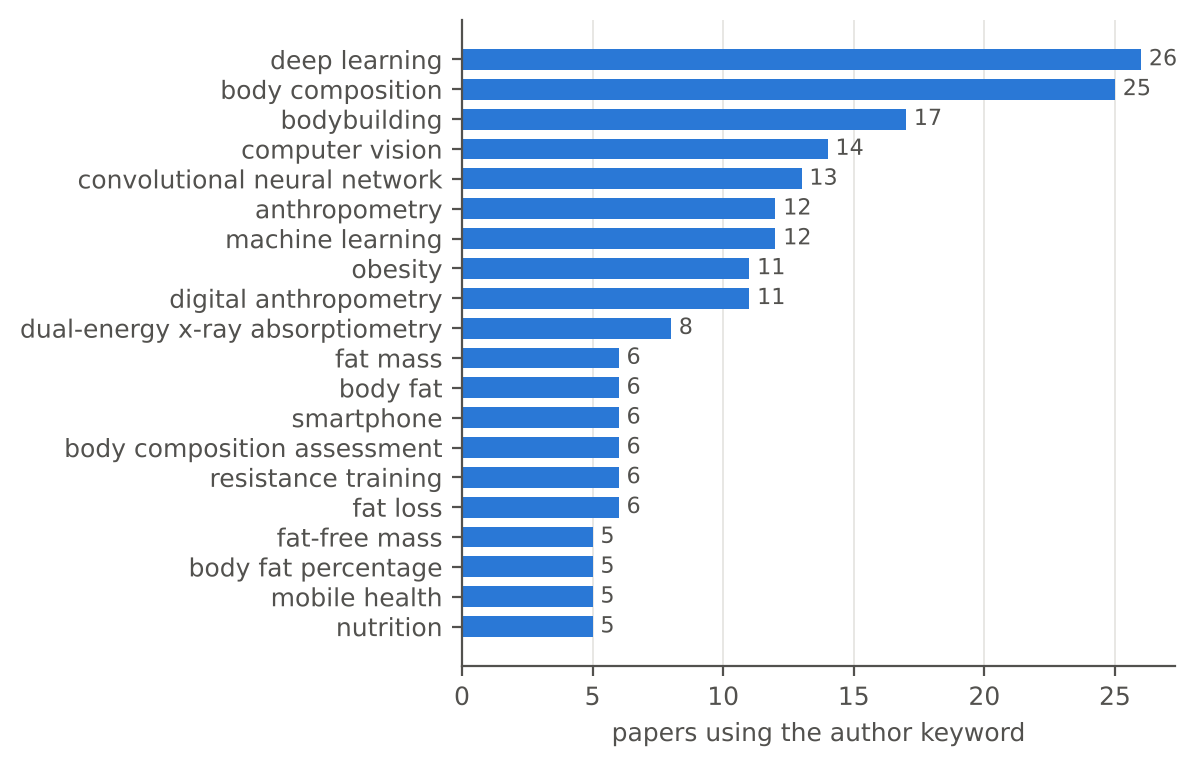
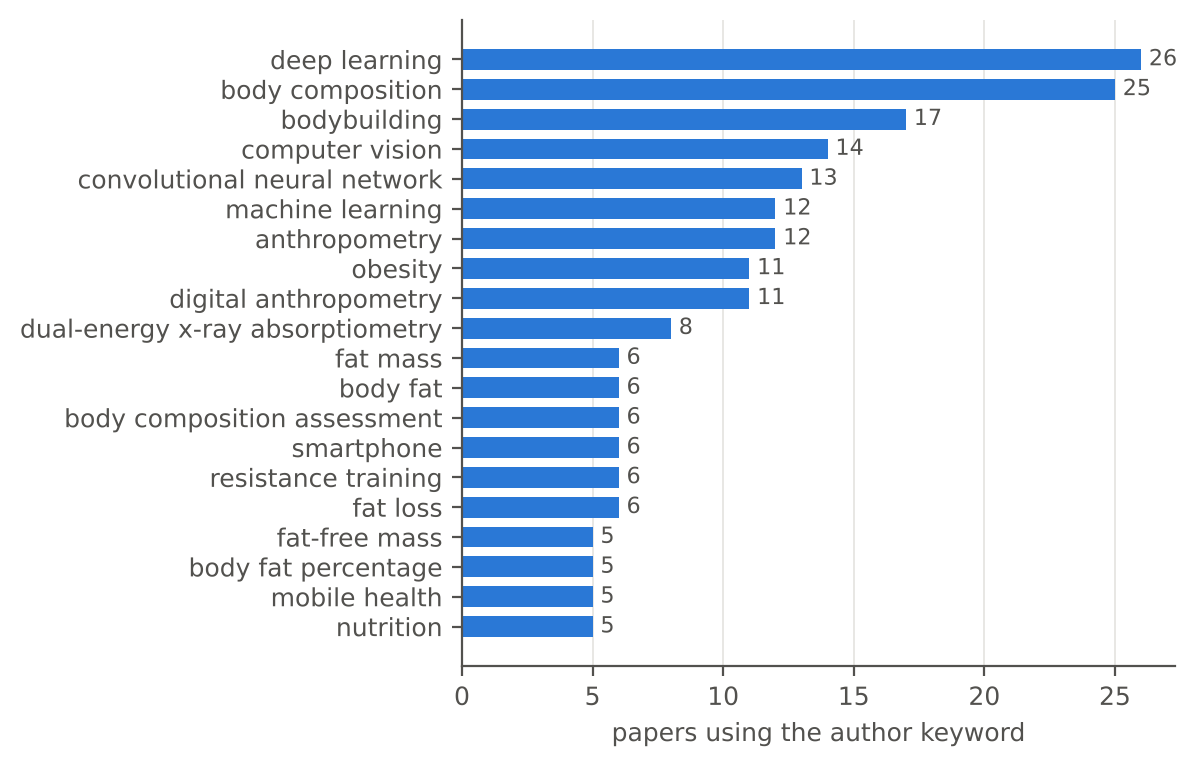
Review pass: affiliation second pass (sub-units -> universities), collaboration evolution and corresponding-author institutions, country fixes
Claude-Session: https://claude.ai/code/session_01Bwa1cvqBemGRnNVegNCcxC

Changed region(s): [[0.0618, 0.5398, 0.3709, 0.5997], [0.1855, 0.2399, 0.3709, 0.3299]]

diff --git a/bibliometric/openrefine/fix_subunits.py b/bibliometric/openrefine/fix_subunits.py
@@ -1,0 +1,47 @@
+"""Second pass on the OpenRefine affiliations (11 Nov 2026).
+
+The OpenRefine rule took the first segment that named a university OR a college, so an
+affiliation such as 'School of X, College of Y, University of Z, City, Country' became
+'College of Y, Country'. For every cleaned institution that is still a sub-unit
+(College/School/Faculty/Department/Institute of ...), the original affiliation of the same
+record is re-read and the university or hospital segment is taken instead, when there is one.
+Overwrites licensed/analysis/scopus_included_cleaned.csv and appends to cleaning_map.tsv.
+"""
+import csv, os, re
+csv.field_size_limit(10**9)
+os.chdir(os.path.dirname(os.path.dirname(os.path.dirname(os.path.abspath(__file__)))))
+P = 'licensed/analysis/scopus_included_cleaned.csv'
+R = list(csv.DictReader(open(P, encoding='utf-8-sig')))
+import glob
+O = {}
+for g in glob.glob('licensed/scopus_ta/scopus_*.csv'):
+    for r in csv.DictReader(open(g, encoding='utf-8-sig')):
+        O.setdefault(r['EID'], r)
+SUB = re.compile(r'^(College|School|Faculty|Department|Dept\.?|Institute) ', re.I)
+UNI = re.compile(r'universit|univ\.|universidad|universidade|universiti|hospital|institute of technology|vidyapeetham|eth z', re.I)
+# values whose original string had no country, or a campus prefix
+FINAL = {'Texas A and M International University, Texas A and M International University': 'Texas A and M International University, United States',
+         'Coimbatore Amrita Vishwa Vidyapeetham, India': 'Amrita Vishwa Vidyapeetham, India'}
+log = []
+for r in R:
+    new = []
+    for inst in [a.strip() for a in r['Affiliations'].split(';') if a.strip()]:
+        if SUB.match(inst):
+            unit = inst.rsplit(',', 1)[0].strip()
+            for orig in O[r['EID']]['Affiliations'].split(';'):
+                if unit.lower() in orig.lower():
+                    segs = [s.strip() for s in orig.split(',')]
+                    u = [s for s in segs if UNI.search(s) and not SUB.match(s)]
+                    if u:
+                        fixed = f'{u[0]}, {segs[-1]}'
+                        log.append((inst, fixed)); inst = fixed
+                    break
+        new.append(inst)
+    new = [FINAL.get(i, i) for i in new]
+    r['Affiliations'] = '; '.join(dict.fromkeys(new))
+with open(P, 'w', encoding='utf-8-sig', newline='') as f:
+    w = csv.DictWriter(f, fieldnames=R[0].keys(), quoting=csv.QUOTE_ALL); w.writeheader(); w.writerows(R)
+with open('bibliometric/openrefine/cleaning_map.tsv', 'a', encoding='utf-8', newline='\n') as f:
+    for a, b in sorted(set(log)):
+        f.write(f'Affiliations (second pass)\t{a}\t{b}\t{log.count((a, b))}\n')
+print(len(log), 'fixed'); print(*sorted(set(log)), sep='\n')

diff --git a/bibliometric/evolution.py b/bibliometric/evolution.py
@@ -1,0 +1,39 @@
+"""Evolution of collaboration and spread of the field, final set (182 papers), cleaned data.
+
+Writes results/bibliometrics/evolution_by_period.tsv (per period: papers, distinct
+institutions, distinct countries, new institutions, authors per paper, international
+share) and corresponding_institutions.tsv (institution of the corresponding author).
+"""
+import csv, collections, os, re
+csv.field_size_limit(10**9)
+os.chdir(os.path.dirname(os.path.dirname(os.path.abspath(__file__))))
+final = {l.split('\t')[0] for l in open('results/screening_scopus.tsv', encoding='utf-8').read().split('\n')[1:]
+         if l and l.split('\t')[3] == 'include'}
+R = [r for r in csv.DictReader(open('licensed/analysis/scopus_included_cleaned.csv', encoding='utf-8-sig')) if r['EID'] in final]
+assert len(R) == len(final)
+FIX = {'United States': 'USA', 'United Kingdom': 'UK', 'South Korea': 'Korea'}
+def insts(r): return {a.strip() for a in r['Affiliations'].split(';') if a.strip()}
+def countries(r): return {FIX.get(a.split(',')[-1].strip(), a.split(',')[-1].strip()) for a in insts(r)}
+def nauth(r): return len([a for a in r['Authors'].split(';') if a.strip()])
+PERIODS = [(2016, 2018), (2019, 2021), (2022, 2023), (2024, 2025)]
+rows, seen = [], set()
+for a, b in PERIODS:
+    P = [r for r in R if a <= int(r['Year']) <= b]
+    I = set().union(*[insts(r) for r in P]); C = set().union(*[countries(r) for r in P])
+    rows.append((f'{a}-{b}', len(P), len(I), len(I - seen), len(C),
+                 round(sum(map(nauth, P)) / len(P), 2), round(sum(len(countries(r)) > 1 for r in P) / len(P), 3)))
+    seen |= I
+os.makedirs('results/bibliometrics', exist_ok=True)
+with open('results/bibliometrics/evolution_by_period.tsv', 'w', encoding='utf-8', newline='\n') as f:
+    f.write('period\tpapers\tinstitutions\tnew_institutions\tcountries\tauthors_per_paper\tinternational_share\n')
+    for x in rows: f.write('\t'.join(map(str, x)) + '\n')
+# corresponding author institution: match the correspondence address to one of the cleaned institutions
+corr = collections.Counter()
+for r in R:
+    ca = r['Correspondence Address'].lower()
+    hit = [i for i in insts(r) if i.split(',')[0].lower() in ca]
+    if hit: corr[sorted(hit, key=len)[-1]] += 1
+with open('results/bibliometrics/corresponding_institutions.tsv', 'w', encoding='utf-8', newline='\n') as f:
+    f.write('institution\tpapers\n')
+    for k, v in corr.most_common(20): f.write(f'{k}\t{v}\n')
+print(*rows, sep='\n'); print('matched corresponding:', sum(corr.values()), 'of', len(R)); print(corr.most_common(8))

diff --git a/bibliometric/metrics.py b/bibliometric/metrics.py
@@ -64,7 +64,9 @@ def country_of(aff):
     c = aff.rsplit(',', 1)[-1].strip()
     return {'United States': 'USA', 'United Kingdom': 'UK', 'Russian Federation': 'Russia',
             'South Korea': 'Korea', 'Republic of Korea': 'Korea', 'Viet Nam': 'Vietnam',
-            'Czech Republic': 'Czechia', 'Taiwan': 'Taiwan'}.get(c, c)
+            'Czech Republic': 'Czechia', 'Taiwan': 'Taiwan',
+            # two Scopus affiliations without a country (both in the USA)
+            'Washington University': 'USA', 'Texas A and M International University': 'USA'}.get(c, c)
 
 def countries(r):
     """Countries per author from 'Authors with affiliations' (one entry per author)."""
